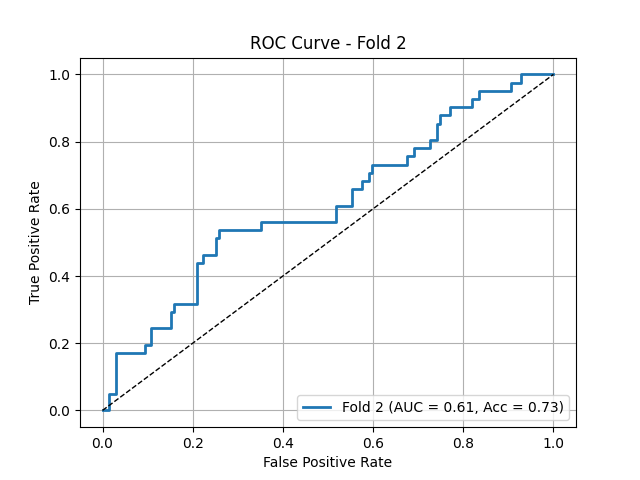
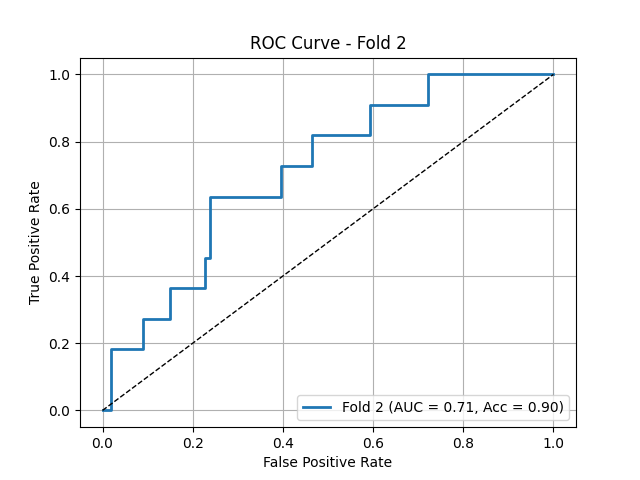
robust learning rate scheduler

diff --git a/train_fusion_model.py b/train_fusion_model.py
@@ -14,6 +14,7 @@ from dataset_washu2 import Classificaiton_Dataset
 from utils import plot_roc_curve, compute_weighted_accuracy
 from tqdm import tqdm 
 from torchmetrics.classification import BinaryAccuracy, BinaryAUROC
+from torch.optim.lr_scheduler import CosineAnnealingWarmRestarts
 # Set deterministic behavior
 SEED = 42
 np.random.seed(SEED); torch.manual_seed(SEED); random.seed(SEED)
@@ -70,7 +71,10 @@ for fold in range(k_fold):
                                  sdf_model_path= r"checkpoints\deeplabv3_sdf_randomcrop\model_20250711_201243\epoch_84",
                                  radiomics= False).to(device)
 
-    optimizer = torch.optim.Adam(model.parameters(), lr=5e-5, weight_decay=1e-5)
+    #optimizer = torch.optim.Adam(model.parameters(), lr=5e-5, weight_decay=1e-5)
+    optimizer = torch.optim.AdamW(model.parameters(), lr=5e-4, weight_decay=1e-2)
+    scheduler = CosineAnnealingWarmRestarts(optimizer, T_0=10, T_mult=2, eta_min=1e-6)
+
     best_val_auc = -1
     best_combined_score = -1 
     best_model_state = None 
@@ -84,7 +88,8 @@ for fold in range(k_fold):
         model.train()
         epoch_loss = 0.0
 
-        for batch in train_loader:
+        # batch in train_loader:
+        for batch_idx, batch in enumerate(train_loader):
             optimizer.zero_grad()
             if len(batch) == 2:
                 x, y = batch
@@ -94,10 +99,14 @@ for fold in range(k_fold):
                 loss = model.compute_loss(x.to(device), y.to(device), x2.to(device))
             loss.backward()
             optimizer.step()
+            optimizer.step()
+            scheduler.step(epoch + batch_idx / len(train_loader))
             epoch_loss += loss.item()
 
         avg_train_loss = epoch_loss / len(train_loader)
         wandb.log({f"train/loss_fold_{fold}": avg_train_loss, "epoch": epoch})
+        current_lr = scheduler.get_last_lr()[0]
+        wandb.log({f"train/lr_fold_{fold}": current_lr, "epoch": epoch})
 
         # --- Validation Evaluation ---
         model.eval()
@@ -112,7 +121,7 @@ for fold in range(k_fold):
                     x, x2, y = batch
                     x, x2, y = x.to(device), x2.to(device), y.to(device)
                     scores = model(x, x2)
-                    
+
                 probs = torch.sigmoid(scores)
                 y_probs.append(probs)
                 y_true.append(y)
